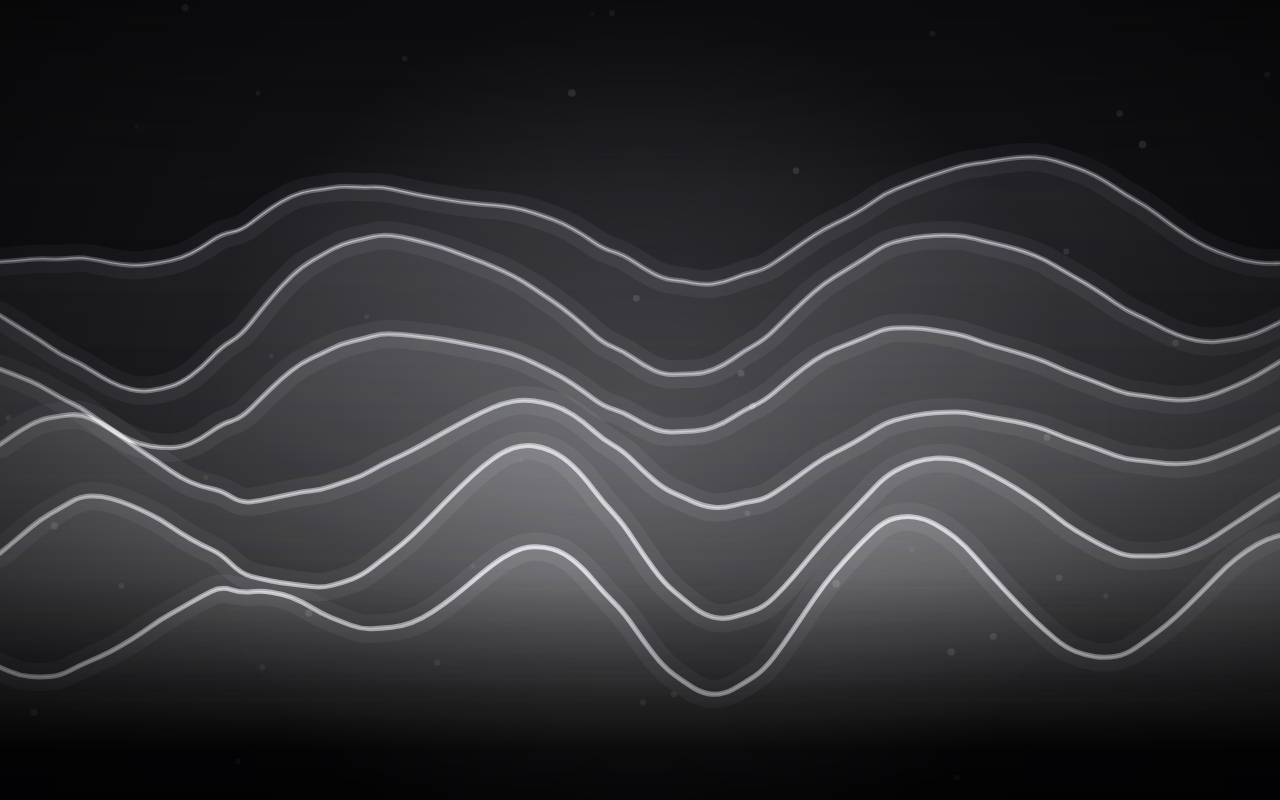
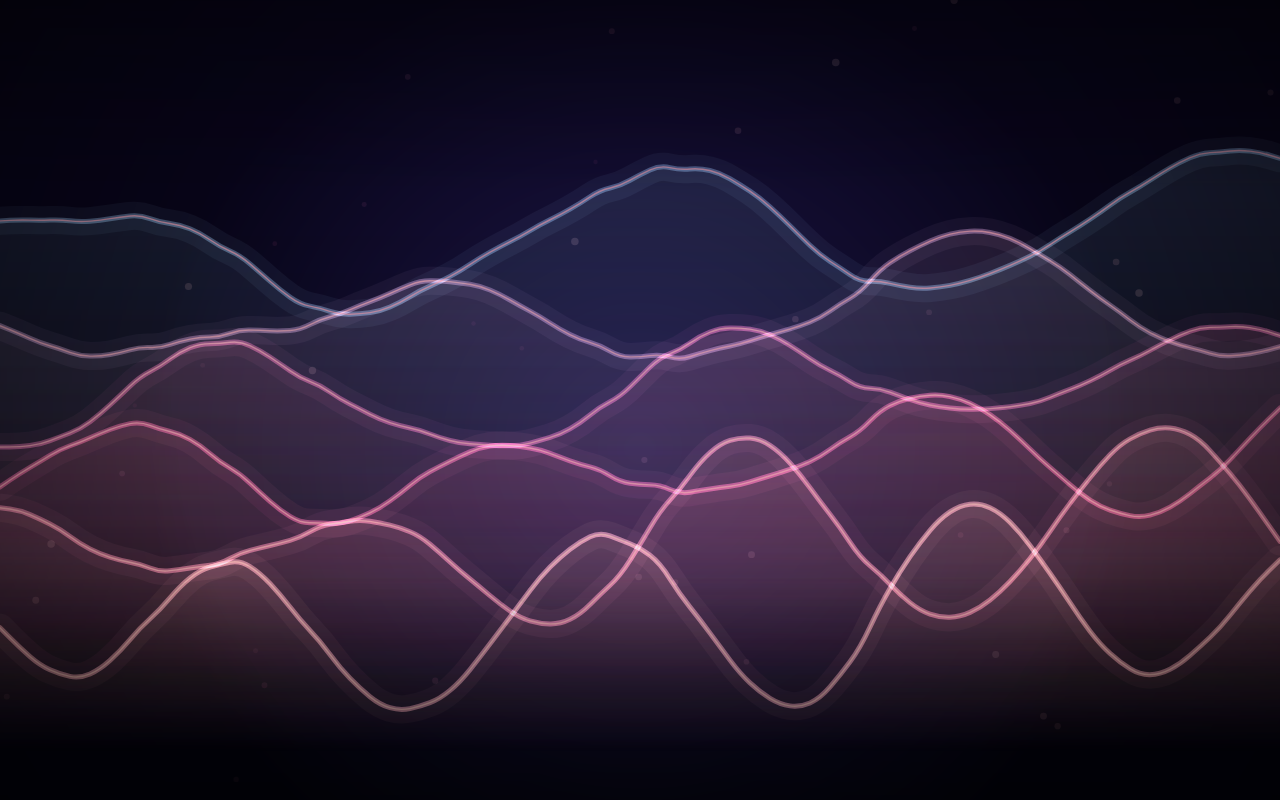
Refresh the gray visualizer gallery frames
Aurora and the waterfall were captured in the monochrome palette,
so they sat gray beside the Prism tiles. They are re-rendered from
the app draw path, and the vinyl label is turned upright for the still.

diff --git a/composeApp/src/desktopTest/kotlin/com/visorcraft/radioshed/ui/player/visualizer/VisualizerGalleryRenderTest.kt b/composeApp/src/desktopTest/kotlin/com/visorcraft/radioshed/ui/player/visualizer/VisualizerGalleryRenderTest.kt
@@ -1,0 +1,94 @@
+package com.visorcraft.radioshed.ui.player.visualizer
+
+import androidx.compose.ui.geometry.Size
+import androidx.compose.ui.graphics.Brush
+import androidx.compose.ui.graphics.Canvas
+import androidx.compose.ui.graphics.ImageBitmap
+import androidx.compose.ui.graphics.drawscope.CanvasDrawScope
+import androidx.compose.ui.graphics.drawscope.DrawScope
+import androidx.compose.ui.graphics.toAwtImage
+import androidx.compose.ui.unit.Density
+import androidx.compose.ui.unit.LayoutDirection
+import com.visorcraft.radioshed.audio.visualizer.AmbientSignalGenerator
+import com.visorcraft.radioshed.audio.visualizer.MusicStructure
+import com.visorcraft.radioshed.audio.visualizer.SpectralHistory
+import com.visorcraft.radioshed.audio.visualizer.VisualizerFrame
+import com.visorcraft.radioshed.audio.visualizer.VisualizerPalette
+import java.io.File
+import javax.imageio.ImageIO
+import kotlin.test.Test
+
+/**
+ * Rewrites the Aurora and Waterfall README frames in the Prism palette.
+ * The checked-in pair was captured in Monochrome, so those two tiles
+ * read as gray next to the rest of the gallery. Set RADIOSHED_GALLERY_DIR
+ * to a directory to regenerate them from the app's draw path. With the
+ * variable unset, the test does not write anything.
+ */
+class VisualizerGalleryRenderTest {
+    @Test
+    fun renderPrismAuroraAndWaterfall() {
+        val dir = System.getenv("RADIOSHED_GALLERY_DIR") ?: return
+        val out = File(dir)
+        check(out.isDirectory) { "RADIOSHED_GALLERY_DIR is not a directory: $dir" }
+
+        val generator = AmbientSignalGenerator()
+        val timeMs = 18_600L
+        val trackId = 7L
+        val history = SpectralHistory()
+        repeat(56) { step ->
+            history.add(generator.frame(timeMs - (55 - step) * 90L, trackId).spectrum)
+        }
+        val frame = generator.frame(timeMs, trackId)
+        val theme = visualizerTheme(VisualizerPalette.Prism)
+        val structure = MusicStructure(tension = 0.62f, impact = 0.28f, dropped = false)
+        val paths = VisualizerPathCache()
+        val heroBrush = Brush.horizontalGradient(theme.ramp.drop(1))
+
+        writeScene(out.resolve("aurora.png"), frame, theme) {
+            drawAurora(
+                frame = frame,
+                theme = theme,
+                intensity = 1.15f,
+                timeMs = timeMs,
+                structure = structure,
+                paths = paths.layers,
+            )
+        }
+        writeScene(out.resolve("waterfall.png"), frame, theme) {
+            drawWaterfall(
+                history = history,
+                theme = theme,
+                heroBrush = heroBrush,
+                intensity = 1.2f,
+                paths = paths.layers,
+            )
+        }
+    }
+
+    private fun writeScene(
+        file: File,
+        frame: VisualizerFrame,
+        theme: VisualizerTheme,
+        scene: DrawScope.() -> Unit,
+    ) {
+        val bitmap = ImageBitmap(WIDTH, HEIGHT)
+        CanvasDrawScope().draw(
+            density = Density(1f),
+            layoutDirection = LayoutDirection.Ltr,
+            canvas = Canvas(bitmap),
+            size = Size(WIDTH.toFloat(), HEIGHT.toFloat()),
+        ) {
+            drawRect(Brush.verticalGradient(listOf(theme.backgroundTop, theme.backgroundBottom)))
+            drawAtmosphere(frame = frame, theme = theme, timeMs = 18_600L, reduceMotion = false)
+            scene()
+            drawVignette(theme)
+        }
+        ImageIO.write(bitmap.toAwtImage(), "png", file)
+    }
+
+    private companion object {
+        const val WIDTH = 1280
+        const val HEIGHT = 800
+    }
+}

diff --git a/composeApp/src/commonMain/kotlin/com/visorcraft/radioshed/ui/player/visualizer/VisualizerCanvas.kt b/composeApp/src/commonMain/kotlin/com/visorcraft/radioshed/ui/player/visualizer/VisualizerCanvas.kt
@@ -178,7 +178,7 @@ private fun DrawScope.drawSceneIntro(
     )
 }
 
-private fun DrawScope.drawAtmosphere(
+internal fun DrawScope.drawAtmosphere(
     frame: VisualizerFrame,
     theme: VisualizerTheme,
     timeMs: Long,
@@ -212,7 +212,7 @@ private fun DrawScope.drawAtmosphere(
     }
 }
 
-private fun DrawScope.drawVignette(theme: VisualizerTheme) {
+internal fun DrawScope.drawVignette(theme: VisualizerTheme) {
     val radius = maxOf(size.width, size.height) * 0.72f
     drawRect(
         brush =
